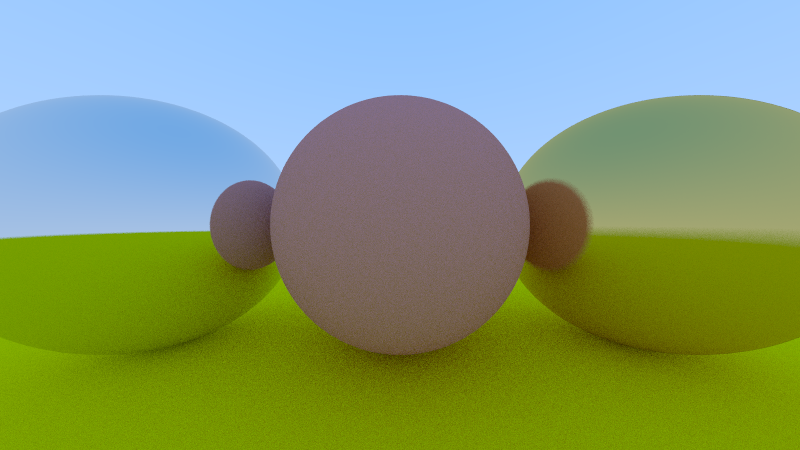
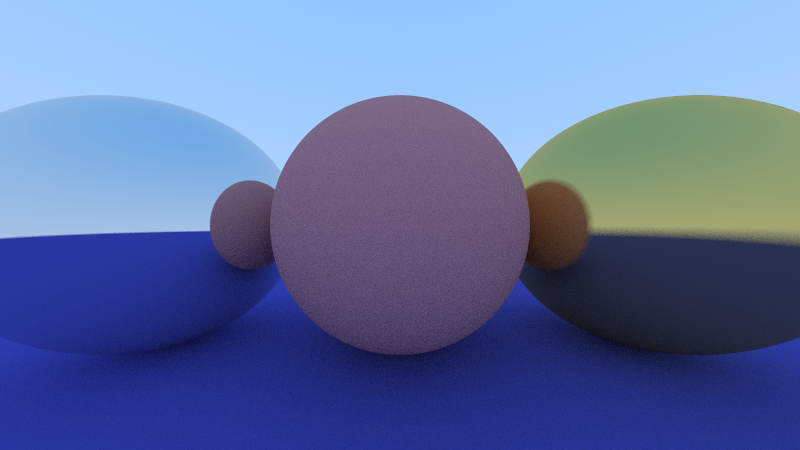
Changed ground sphere color.

diff --git a/RTWeekend.cc b/RTWeekend.cc
@@ -25,7 +25,7 @@ int main()
     // World
     HittableList world;
 
-    auto groundMaterial = make_shared<Lambertian>(Color(0.8, 0.8, 0));
+    auto groundMaterial = make_shared<Lambertian>(Color(0.1, 0.1, 0.5));
     auto centerMaterial = make_shared<Lambertian>(Color(0.7, 0.3, 0.3));
     auto leftMaterial = make_shared<Metal>(Color(0.8, 0.8, 0.8), 0.01);
     auto rightMaterial = make_shared<Metal>(Color(0.8, 0.6, 0.2), 0.08);
